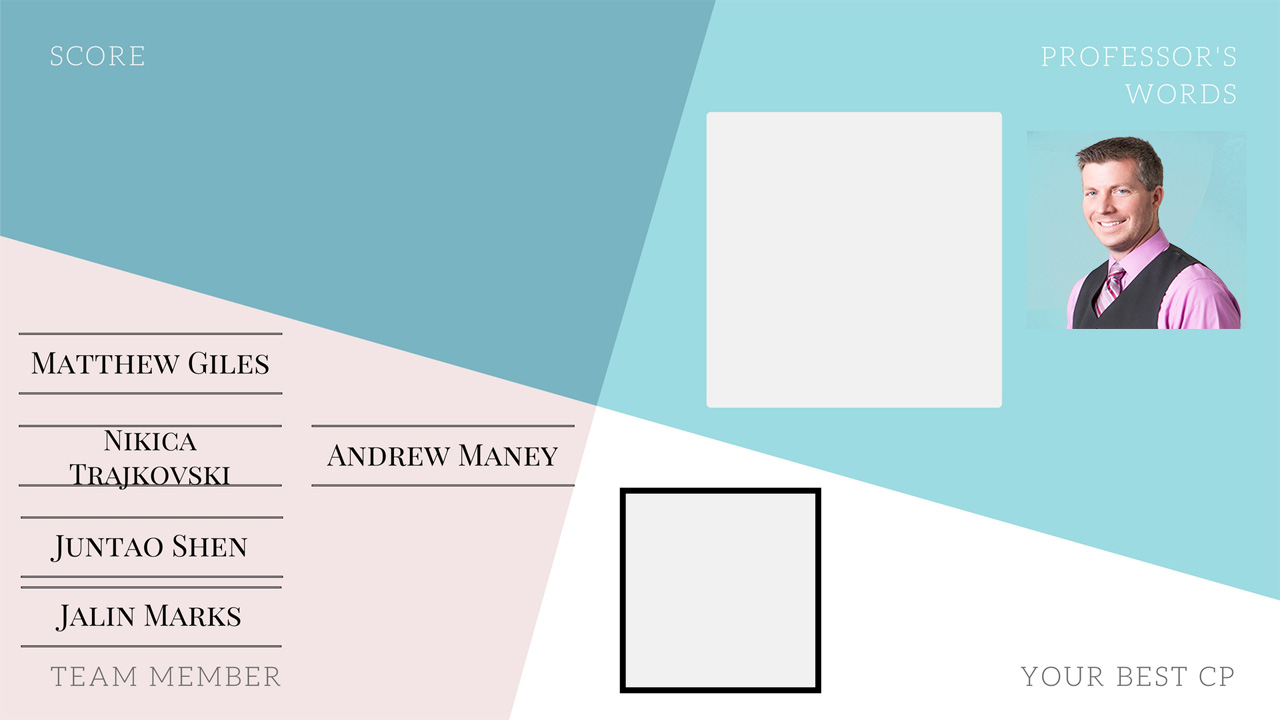
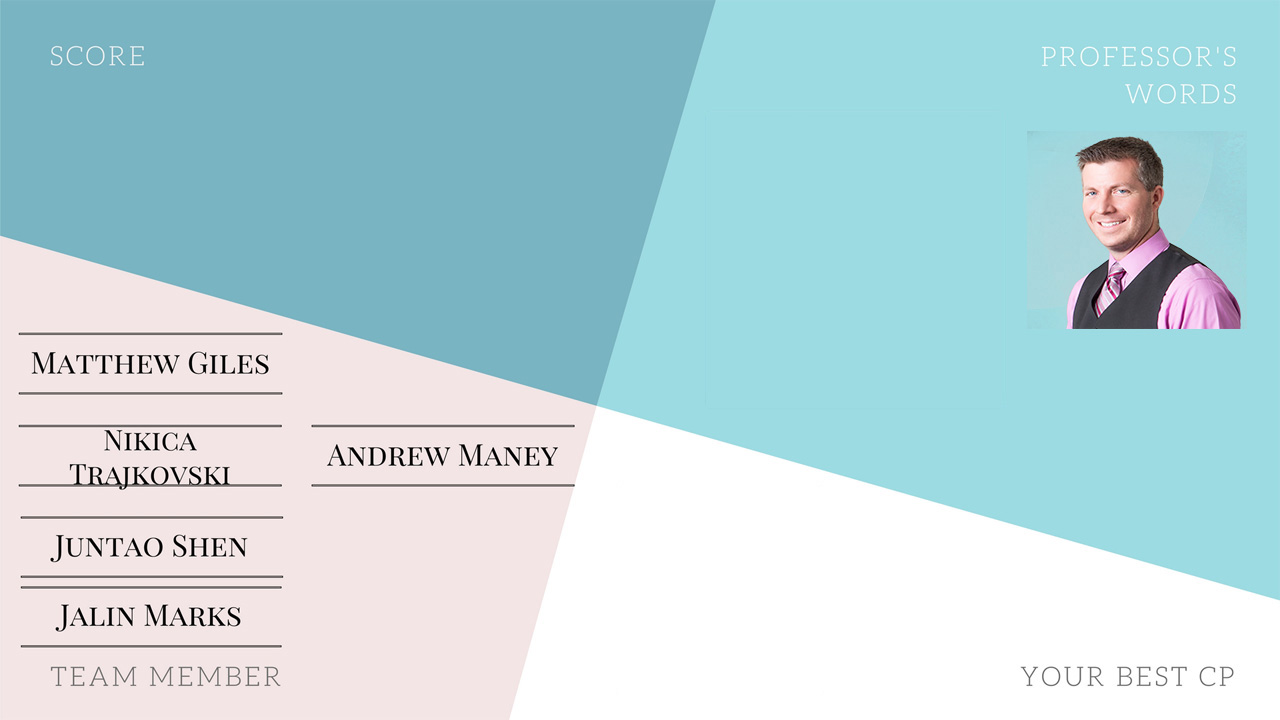
visual change to endgamegui

Changed region(s): [[0.5312, 0.1528, 0.7812, 0.5806], [0.4688, 0.6722, 0.6562, 0.9778]]

diff --git a/HerminaSkelton/src/client/EndGameGUI.java b/HerminaSkelton/src/client/EndGameGUI.java
@@ -1,12 +1,12 @@
 package client;
 import java.awt.BorderLayout;
+import java.awt.Color;
 import java.awt.Dimension;
 import java.awt.Font;
 import java.awt.Graphics;
 import java.awt.GridBagConstraints;
-import java.awt.GridBagLayout;
+import java.awt.GridLayout;
 import java.awt.Image;
-import java.awt.Insets;
 import java.awt.event.ActionEvent;
 import java.awt.event.ActionListener;
 import java.awt.event.WindowAdapter;
@@ -14,9 +14,10 @@ import java.awt.event.WindowEvent;
 import java.io.File;
 import java.io.IOException;
 import java.util.ArrayList;
-import java.util.Vector;
 
 import javax.imageio.ImageIO;
+import javax.swing.Box;
+import javax.swing.BoxLayout;
 import javax.swing.ImageIcon;
 import javax.swing.JButton;
 import javax.swing.JFrame;
@@ -26,8 +27,6 @@ import javax.swing.JPanel;
 import javax.swing.JTextArea;
 
 import AllCPs.CP;
-import AllCPs.EdgarLugo;
-import AllCPs.EmmaLautz;
 import AllCPs.JimmyChen;
 import utilities.Constants;
 import utilities.GameScore;
@@ -35,7 +34,6 @@ import utilities.GameScore;
 public class EndGameGUI extends JFrame{
     private static final long serialVersionUID = 1L;
     private String temp;
-    private JLabel message;
     private JButton favCP;
     private boolean win;
     private boolean pause = false;
@@ -90,11 +88,10 @@ public class EndGameGUI extends JFrame{
     
     private void initializeComponents(){
         music = new BackgroundMusic();
-        message = new JLabel("");
         name1 = new JLabel("");
-        name1.setFont(new Font("Serif", Font.BOLD, 20));
+        name1.setFont(new Font("Courier", Font.BOLD, 20));
         name2 = new JLabel("");
-        name2.setFont(new Font("Serif", Font.BOLD, 20));
+        name2.setFont(new Font("Courier", Font.BOLD, 20));
         name1.setText("Top Five Scores:");
         if(gamemode ==2){
             name2.setText("");
@@ -109,6 +106,8 @@ public class EndGameGUI extends JFrame{
         professorwords.setEditable(false);
         professorwords.setPreferredSize(new Dimension(1,1));
         professorwords.setOpaque(false);
+        professorwords.setBackground(Color.LIGHT_GRAY);
+        professorwords.setForeground(Color.DARK_GRAY);
         professorwords.setColumns(1);
         professorwords.setLineWrap(true);
         professorwords.setRows(1);
@@ -146,96 +145,55 @@ public class EndGameGUI extends JFrame{
     }
     
     private void createGUI(){
-        setSize(1280,720);
+        setSize(1280,750);
         setTitle("Herminia Skelton");
-        setLocation(750,100);
-        setLayout(new GridBagLayout());
-        mGridBagConst = new GridBagConstraints();
-        mGridBagConst.gridwidth = java.awt.GridBagConstraints.RELATIVE;
-        mGridBagConst.fill = GridBagConstraints.BOTH;
+        setLocation(500,25);
+        setLayout(new GridLayout(3,5));
         
-        mGridBagConst.gridx = 0;
-        mGridBagConst.gridy = 0;
-        mGridBagConst.insets = new Insets(100,0,0,0);
-        add(name1,mGridBagConst);
-        mGridBagConst.gridx = 1;
-        mGridBagConst.insets = new Insets(100,100,0,300);
-        add(name2,mGridBagConst);
+        JPanel holder = new JPanel();
+        holder.setOpaque(false);
+        holder.setLayout(new BoxLayout(holder, BoxLayout.Y_AXIS));
+        holder.add(Box.createGlue());
+        holder.add(Box.createGlue());
+        holder.add(Box.createGlue());
         
-        mGridBagConst.insets = new Insets(0,0,0,0);
-        mGridBagConst.gridx = 0;
-        mGridBagConst.gridy = 1;
-        add(score1_,mGridBagConst);
-        mGridBagConst.gridx = 1;
-        mGridBagConst.insets = new Insets(0,100,0,300);
-        add(score2_,mGridBagConst);
-        
-        int count = 0;
         for(int i = 0 ; i < topFiveScores.size(); i++){
-            JLabel numLabel = new JLabel("");
-            JLabel namLabel = new JLabel("");
-            numLabel.setText(topFiveScores.get(i).getUsername());
-            namLabel.setText(Integer.toString(topFiveScores.get(i).getScore()));
-            mGridBagConst.gridx = 0;
-            mGridBagConst.gridy = i+2;
-            mGridBagConst.insets = new Insets(0,0,0,0);
-            if(i == 4){
-                mGridBagConst.insets = new Insets(0,0,0,0);
-            }
-            numLabel.setHorizontalAlignment(JLabel.CENTER);
-            numLabel.setVerticalAlignment(JLabel.CENTER);
-            mGridBagConst.gridx = 0;
-            mGridBagConst.gridy = i+2;
-            add(namLabel,mGridBagConst);
-            mGridBagConst.gridx = 1;
-            mGridBagConst.insets = new Insets(0,50,0,300);
-            if(i == 4){
-                mGridBagConst.insets = new Insets(0,50,0,300);
-            }
-            namLabel.setHorizontalAlignment(JLabel.CENTER);
-            namLabel.setVerticalAlignment(JLabel.CENTER);
-            add(numLabel,mGridBagConst);
-            count ++;
+            JLabel numLabel = new JLabel(topFiveScores.get(i).getUsername());
+            System.out.println(""+topFiveScores.get(i).getUsername());
+            numLabel.setForeground(Color.DARK_GRAY);
+            numLabel.setFont(new Font("Serif", Font.BOLD, 20));
+            JLabel namLabel = new JLabel(""+topFiveScores.get(i).getScore());
+            System.out.println(""+topFiveScores.get(i).getScore());
+            namLabel.setForeground(Color.DARK_GRAY);
+            namLabel.setFont(new Font("Serif", Font.BOLD, 20));
+            
+            JPanel subHolder = new JPanel();
+            subHolder.setOpaque(false);
+            subHolder.setLayout(new BoxLayout(subHolder, BoxLayout.X_AXIS));
+            subHolder.add(numLabel);
+            subHolder.add(Box.createGlue());
+            subHolder.add(namLabel);
+            
+            holder.add(subHolder);
         }
-        while(count != 5){
-            JLabel numLabel = new JLabel("    ");
-            JLabel namLabel = new JLabel("    ");
-            mGridBagConst.gridx = 0;
-            mGridBagConst.gridy = count+2;
-            mGridBagConst.insets = new Insets(0,0,0,0);
-            add(numLabel,mGridBagConst);
-            mGridBagConst.gridx = 1;
-            mGridBagConst.insets = new Insets(0,50,0,400);
-            if(count == 4){
-                mGridBagConst.insets = new Insets(0,50,0,400);
-            }
-            numLabel.setHorizontalAlignment(JLabel.CENTER);
-            numLabel.setVerticalAlignment(JLabel.CENTER);
-            namLabel.setHorizontalAlignment(JLabel.CENTER);
-            namLabel.setVerticalAlignment(JLabel.CENTER);
-            add(namLabel,mGridBagConst);
-            count ++;
-        }
-        mGridBagConst.gridy = 7;
-        mGridBagConst.gridx = 3;
-        mGridBagConst.ipadx = 150;
-        mGridBagConst.ipady = 150;
-        mGridBagConst.insets = new Insets(0,100,100,100);
-        add(professorwords,mGridBagConst);
         
-        mGridBagConst.gridy = 8;
-        mGridBagConst.gridx = 3;
-        mGridBagConst.ipadx = 0;
-        mGridBagConst.ipady = 0;
-        mGridBagConst.insets = new Insets(0,0,0,300);
-        add(favCP,mGridBagConst);
+        add(holder);
+        add(new JLabel(""));
+        add(new JLabel(""));
+        add(new JLabel(""));
+        add(new JLabel(""));
         
-        mGridBagConst.gridy = 8;
-        mGridBagConst.gridx = 1;
-        mGridBagConst.ipadx = 32;
-        mGridBagConst.ipady = 32;
-        mGridBagConst.insets = new Insets(0,0,0,0);
-        add(mute,mGridBagConst);
+        add(new JLabel(""));
+        add(new JLabel(""));
+        add(new JLabel(""));
+        add(professorwords);
+        add(new JLabel(""));
+        
+        add(new JLabel(""));
+        add(mute);
+        add(new JLabel(""));
+        add(favCP);
+        add(new JLabel(""));
     }
     
     private void addEvents(){
@@ -305,6 +263,9 @@ public class EndGameGUI extends JFrame{
     
     public static void main(String[] args){
     	ArrayList<GameScore> topFiveScores = new ArrayList<GameScore>();
+    	topFiveScores.add(new GameScore("matt", 5));
+    	topFiveScores.add(new GameScore("matt", 8));
+    	topFiveScores.add(new GameScore("matt", 10));
     	new EndGameGUI(2,new JimmyChen(2),topFiveScores,true,null).setVisible(true);
     }
 }

diff --git a/HerminaSkelton/src/utilities/Constants.java b/HerminaSkelton/src/utilities/Constants.java
@@ -43,22 +43,22 @@ public class Constants {
     public static final String serverbkgimg = "serverbkgimg.png";
     
     //
-    public static final String win = "did a great job \n and found true friendships with your CPs. Good luck on the final exam";
-    public static final String lose = "\n have lost the \n battle, make sure to try it again";
+    public static final String win = "did a great job and founded true friendships with your CPs. Be sure to play again!";
+    public static final String lose = " have lost the battle, make sure to try it again";
     
     //
     public static final String generateWord(boolean win, int gamemode){
     	String temp;
     	if(win){
     		if(gamemode == 2){
-				temp = "Congratulate you guys ";
+				temp = "Congratulations! You ";
 			}
 			else{
 				temp = "Congratulate you ";
 			}
 			temp+=Constants.win;
 			if(gamemode == 2){
-				temp += " you guys ";
+				//temp += " you guys ";
 			}
 			else{
 				temp += " you ";
